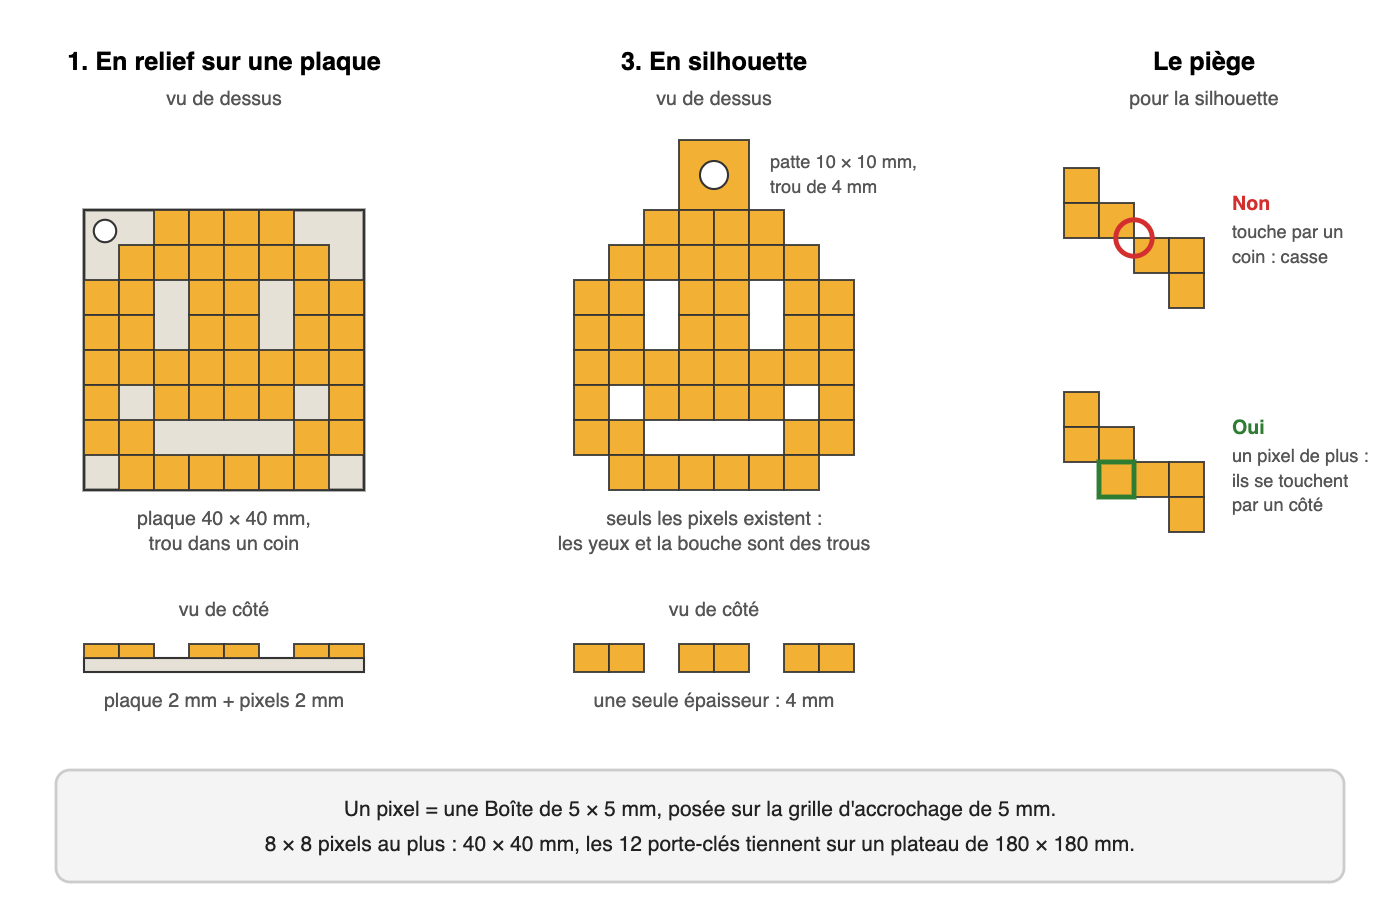
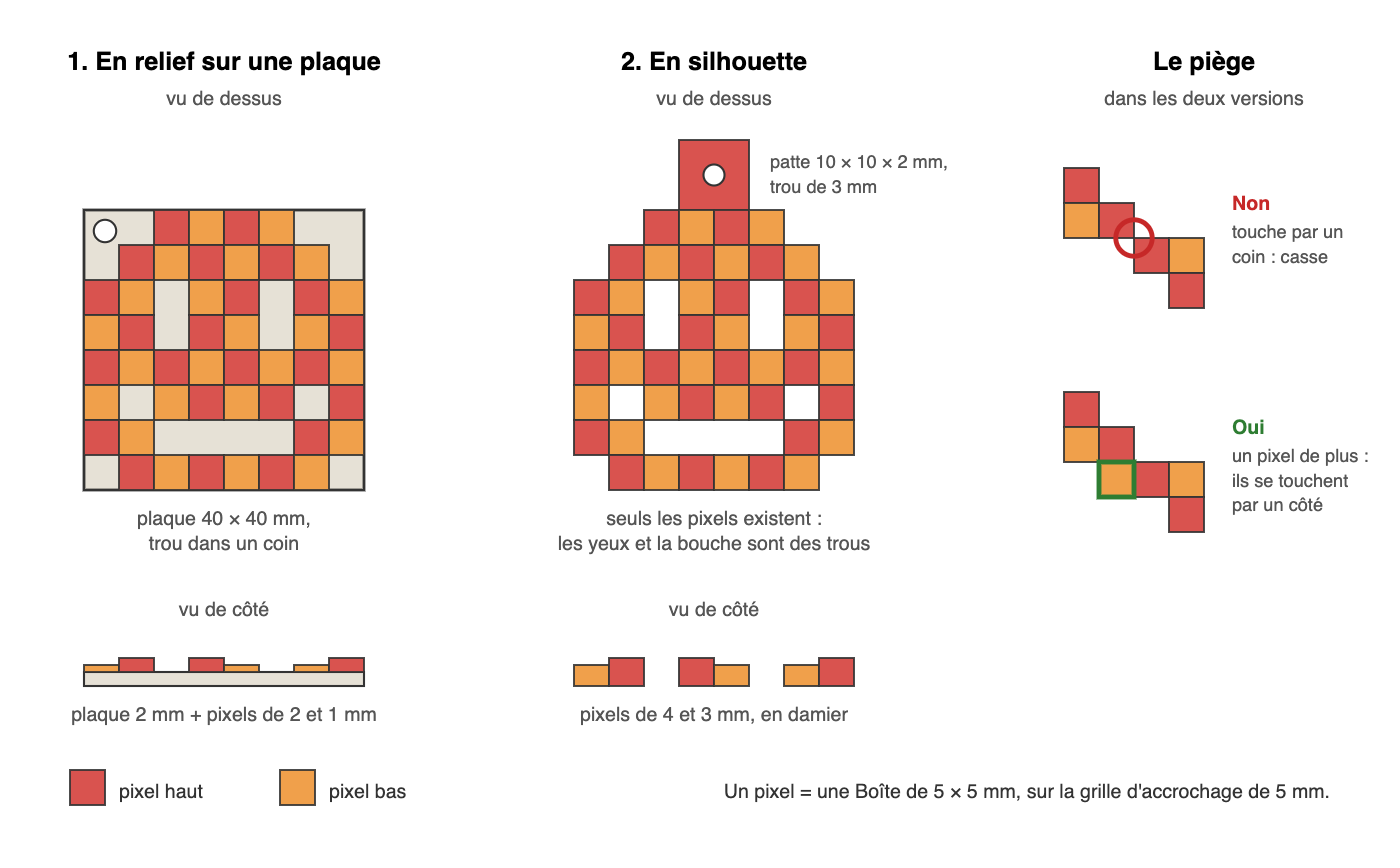
Séance 4 : le schéma montre le damier à deux hauteurs, sans la ligne du plateau

diff --git a/docs/projets/objets-connectes/seances/s04-dessine-ton-porte-cles.md b/docs/projets/objets-connectes/seances/s04-dessine-ton-porte-cles.md
@@ -116,4 +116,4 @@ Nomme le fichier `prenom-pixel.stl` et dépose-le où l'animateur te l'indique.
 
 ## Va plus loin
 
-- **En relief sur une plaque.** Plutôt qu'une silhouette : une plaque de 40 × 40 × 2 mm, et tes pixels posés dessus. Rien ne peut tomber, et les cases vides se lisent en creux.
+- **En relief sur une plaque.** Plutôt qu'une silhouette : une plaque de 40 × 40 × 2 mm, et tes pixels posés dessus, à 2 et 1 mm en damier. Rien ne peut tomber, et les cases vides se lisent en creux.
